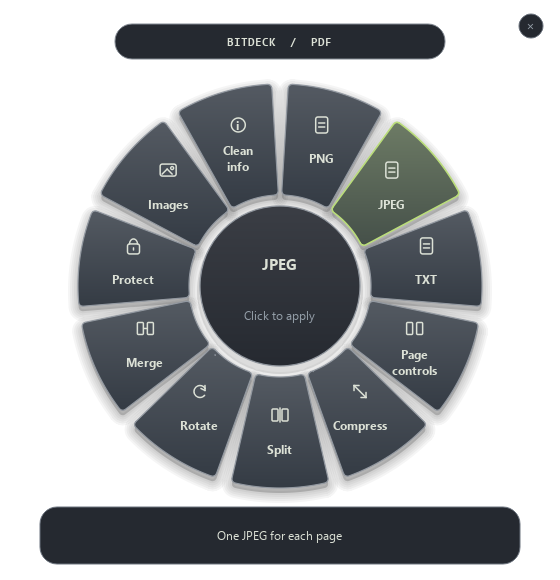
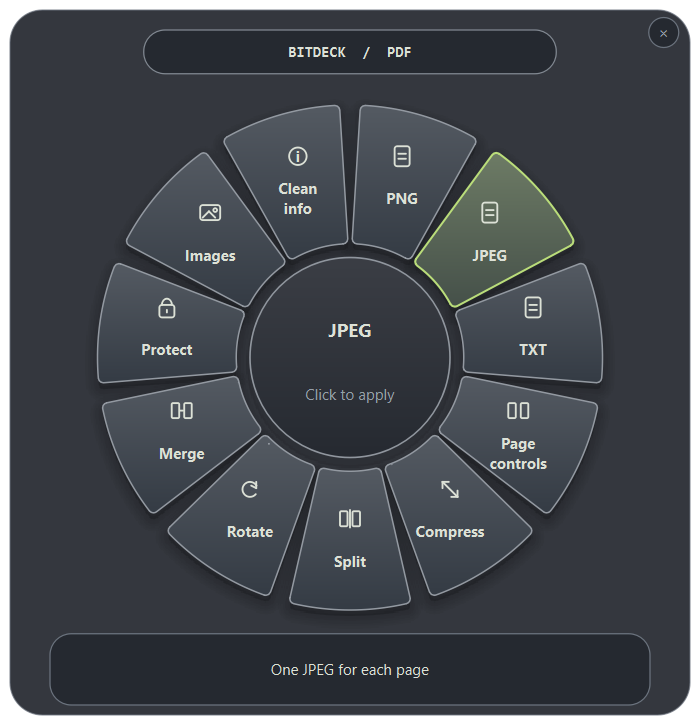
Add a translucent rounded backing behind the radial menu

diff --git a/bitdeck/radial.py b/bitdeck/radial.py
@@ -276,7 +276,15 @@ class CursorMenu(QWidget):
         painter.setRenderHint(QPainter.Antialiasing)
         painter.scale(self.width() / 560, self.height() / 580)
         painter.setOpacity(self._reveal)
-        # Floating surfaces: desktop remains visible between the rounded wedges.
+        # A continuous tinted backing quiets the desktop behind the wheel.
+        # Keep only the outside corners clear; controls retain full contrast.
+        backing = QColor(color('panel'))
+        backing.setAlpha(238)
+        outline = QColor(color('border'))
+        outline.setAlpha(180)
+        painter.setPen(QPen(outline, 1))
+        painter.setBrush(backing)
+        painter.drawRoundedRect(QRectF(8, 8, 544, 564), 26, 26)
         painter.drawPixmap(0, 0, self._shadow)
         painter.setPen(QPen(blend(color('border'), '#ffffff', .15), 1))
         painter.setBrush(QColor(color('panel')))
